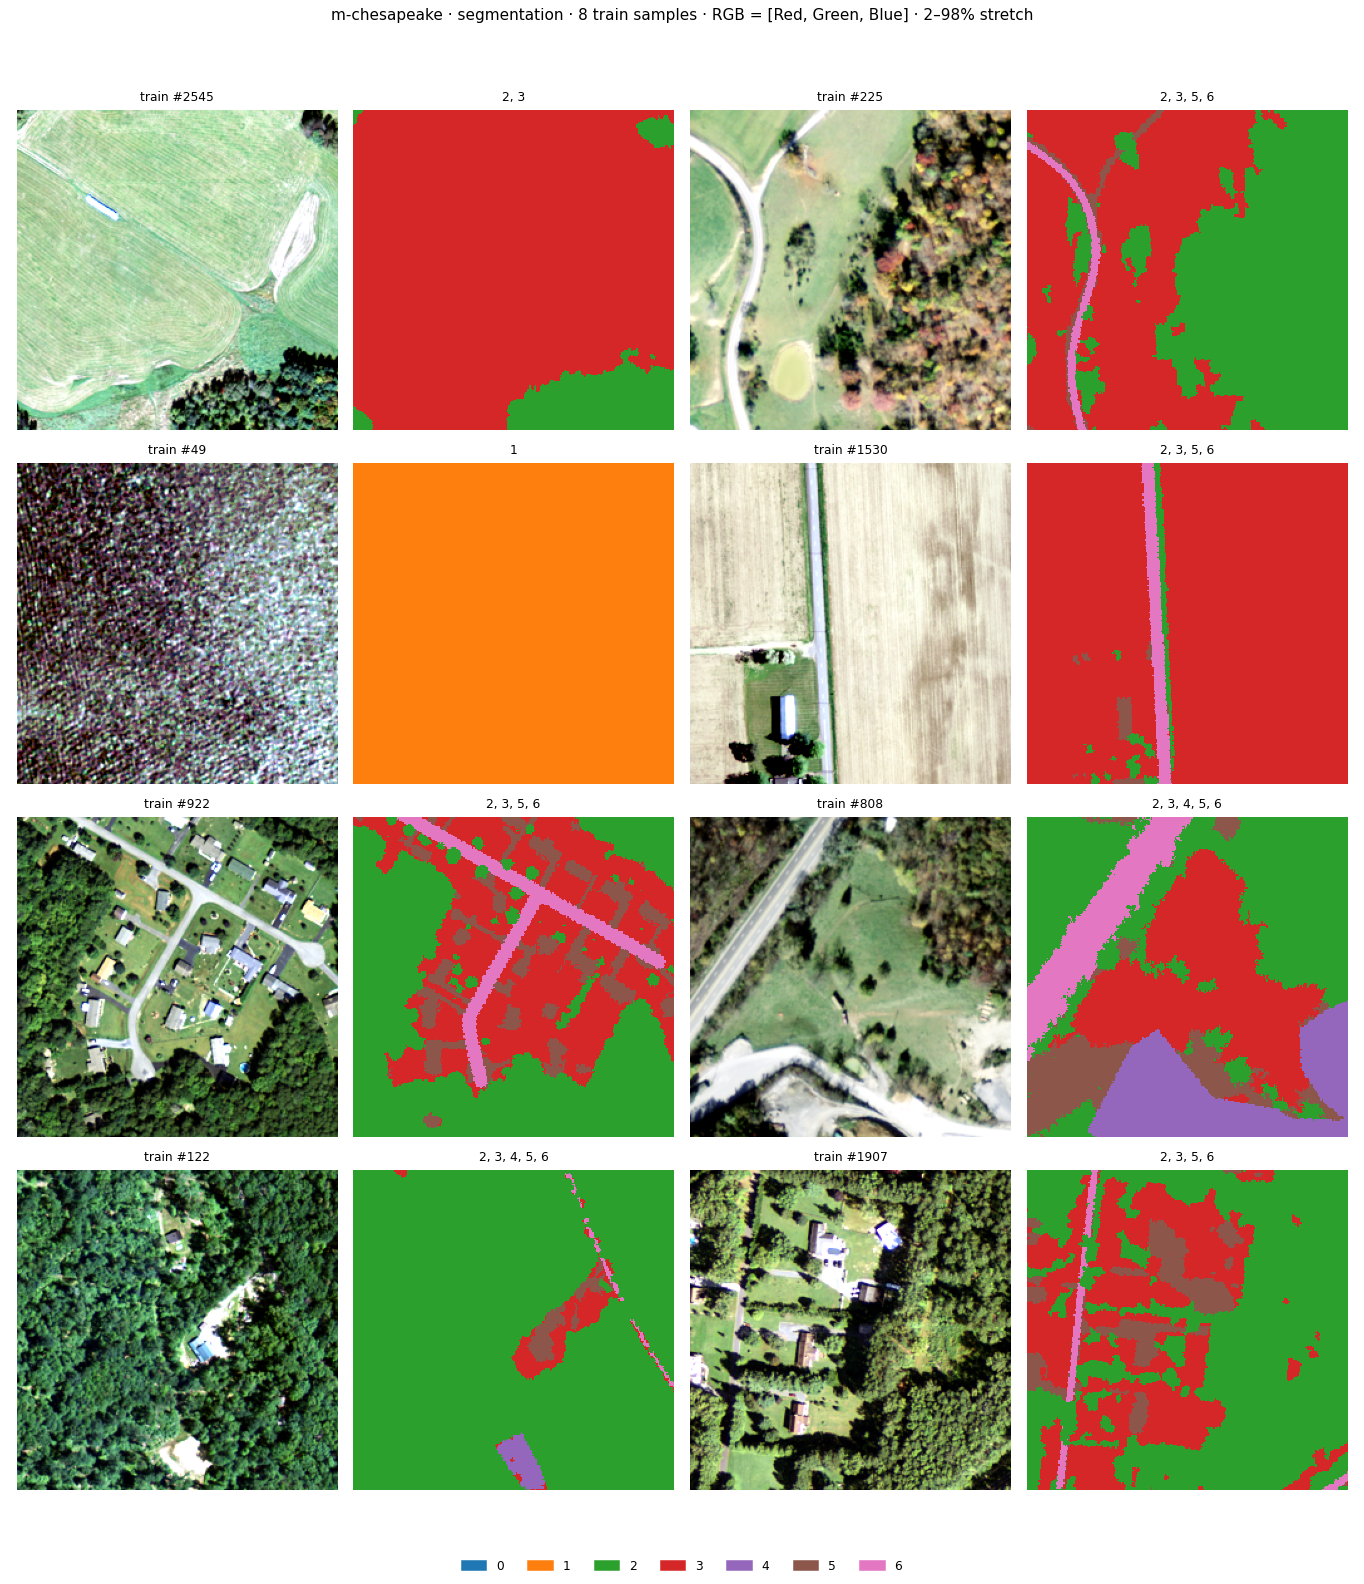
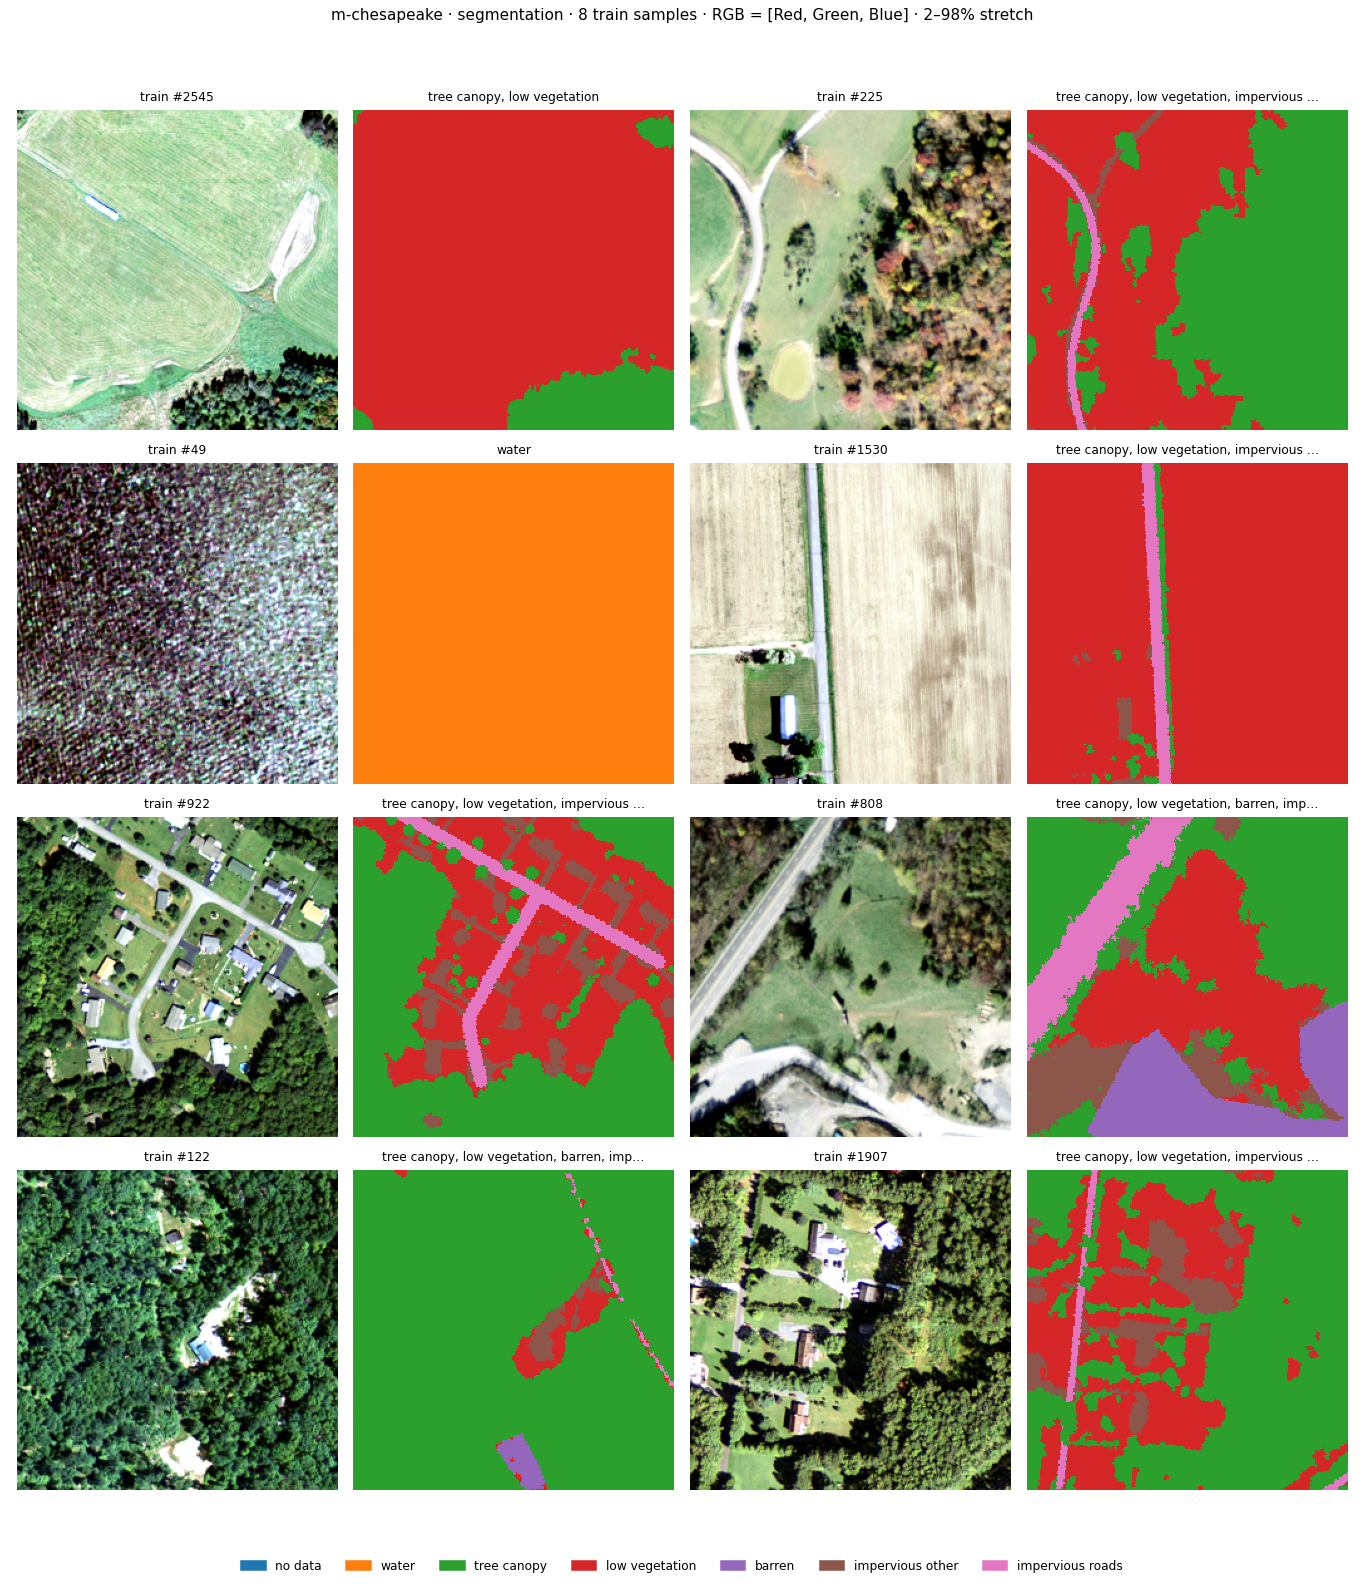
recon2: corrected chesapeake figure; gotcha 23 re-measured
- docs/figures/m-chesapeake_samples.png redrawn on SageMaker with the
  real class names (legend and titles).
- gotcha 23: full-train measurement (15,063 tiles): flat tiles are a
  separate group (B04 spread 30 DN at p5 -> 156 DN at p10); 11.5% of
  not-kiln vs 0.0% of kiln below 50 DN, 15.0% vs 0.0% below 150 DN; 3
  static tiles in the sample grid, not 4. Replaces the earlier guess.

diff --git a/docs/data_notes.md b/docs/data_notes.md
@@ -238,8 +238,8 @@ How to read it:
     - `m-chesapeake_samples.png`: tile #49 (rippled water) is class 1; classes 2-6 sit on canopy, fields, a quarry, roofs and roads.
     - GEO-Bench's converter lists the names starting at "water" with "no-data" LAST. That is off by one, which is why the names can't be taken from there.
 
-    Fixed with `CLASS_NAME_FIXES["m-chesapeake"]`. **Decision (#9):** class 0 stays in training and in the official 7-class mIoU (`score`, comparable with GEO-Bench baselines). `metrics.json` and `diagnose()` add `miou_excl_nodata`: mIoU over the 6 real classes with no-data-truth pixels removed (`NODATA_CLASSES`). The sample figure was drawn before the fix, so its legend still says 0-6.
-23. **m-brick-kiln: accuracy is misleading.** The majority class ("not brick kiln") is 66.4% of train, so always predicting it scores 66.4%. On top of that, almost-flat tiles (water, cloud, haze or fill; B04 2-98% spread < 50 DN) are 10.8% of not-kiln tiles and 0.0% of kiln tiles: "flat tile => not kiln" is a free shortcut. **Report F1 / recall of "brick kiln"** (diagnose()'s per-class recall shows it) next to accuracy. The flat tiles are what look like colour static in `m-brick-kiln_samples.png`. That grid shows 4 of 8, which is very unlikely at a 7-11% rate (< 1% probability), and the grid picks tiles uniformly at random (`rng.choice`, seed 0), so it is not a selection bias. More likely the 2-98% stretch also turns tiles with spreads somewhat above 50 DN into static, i.e. the near-flat share is larger than the < 50 DN count. **Re-measured (request #11)** with a unit-free definition (gotcha 27): 13.8% of not-kiln tiles are flat, versus 10.8% with the 50 DN cut, and still 0.0% of kiln tiles.
+    Fixed with `CLASS_NAME_FIXES["m-chesapeake"]`. **Decision (#9):** class 0 stays in training and in the official 7-class mIoU (`score`, comparable with GEO-Bench baselines). `metrics.json` and `diagnose()` add `miou_excl_nodata`: mIoU over the 6 real classes with no-data-truth pixels removed (`NODATA_CLASSES`). `m-chesapeake_samples.png` was redrawn on SageMaker after the fix (recon2): the legend and titles use the real names, and they match the images.
+23. **m-brick-kiln: accuracy is misleading.** The majority class ("not brick kiln") is 66.4% of train, so always predicting it scores 66.4%. On top of that, almost-flat tiles (water, cloud, haze or fill; B04 2-98% spread < 50 DN) are 10.8% of not-kiln tiles and 0.0% of kiln tiles: "flat tile => not kiln" is a free shortcut. **Report F1 / recall of "brick kiln"** (diagnose()'s per-class recall shows it) next to accuracy. **Measured on the full train split (recon2, 15,063 tiles):** the flat tiles are a separate group, not the tail of a smooth distribution. The per-tile B04 spread (p98 − p2) jumps from **30 DN at p5 to 156 DN at p10**. Below 50 DN are **11.5% of not-kiln tiles and 0.0% of kiln tiles**; below 150 DN, 15.0% vs 0.0%. In `m-brick-kiln_samples.png`, **3 of the 8 tiles** look like colour static (grid #1, #4, #6, B04 spread 25, 18 and 14 DN), not 4: #3 is a black/white cloud-edge tile (spread 2,119 DN). Every non-static tile spreads ≥ 536 DN, so only truly flat tiles look like static after the 2-98% stretch. The engine's unit-free definition (gotcha 27, threshold 0.25, about 90 DN in B04) flags 13.8% of not-kiln and 0.0% of kiln tiles on the seeded 2,000-tile sample, inside that 11.5-15% range.
 24. **m-chesapeake has duplicates: 20 val images are byte-identical to a train image** (and 75 duplicates inside the sampled train set). Validation scores are slightly optimistic; the test split was not checked (and must not be).
 25. **Task name is `m-chesapeake`, not `m-chesapeake-landcover`.** That's the Hugging Face zip name and the folder it unzips into; the engine finds tasks by folder name. **Decision (#10):** we use `m-chesapeake` everywhere; Hilal switches the fake engine and docs.
 26. **m-brick-kiln is stored as float64** (eurosat is int16). Same values, 4x the memory: cast to float32 before caching arrays. GeoBenchDataset already returns float32.
